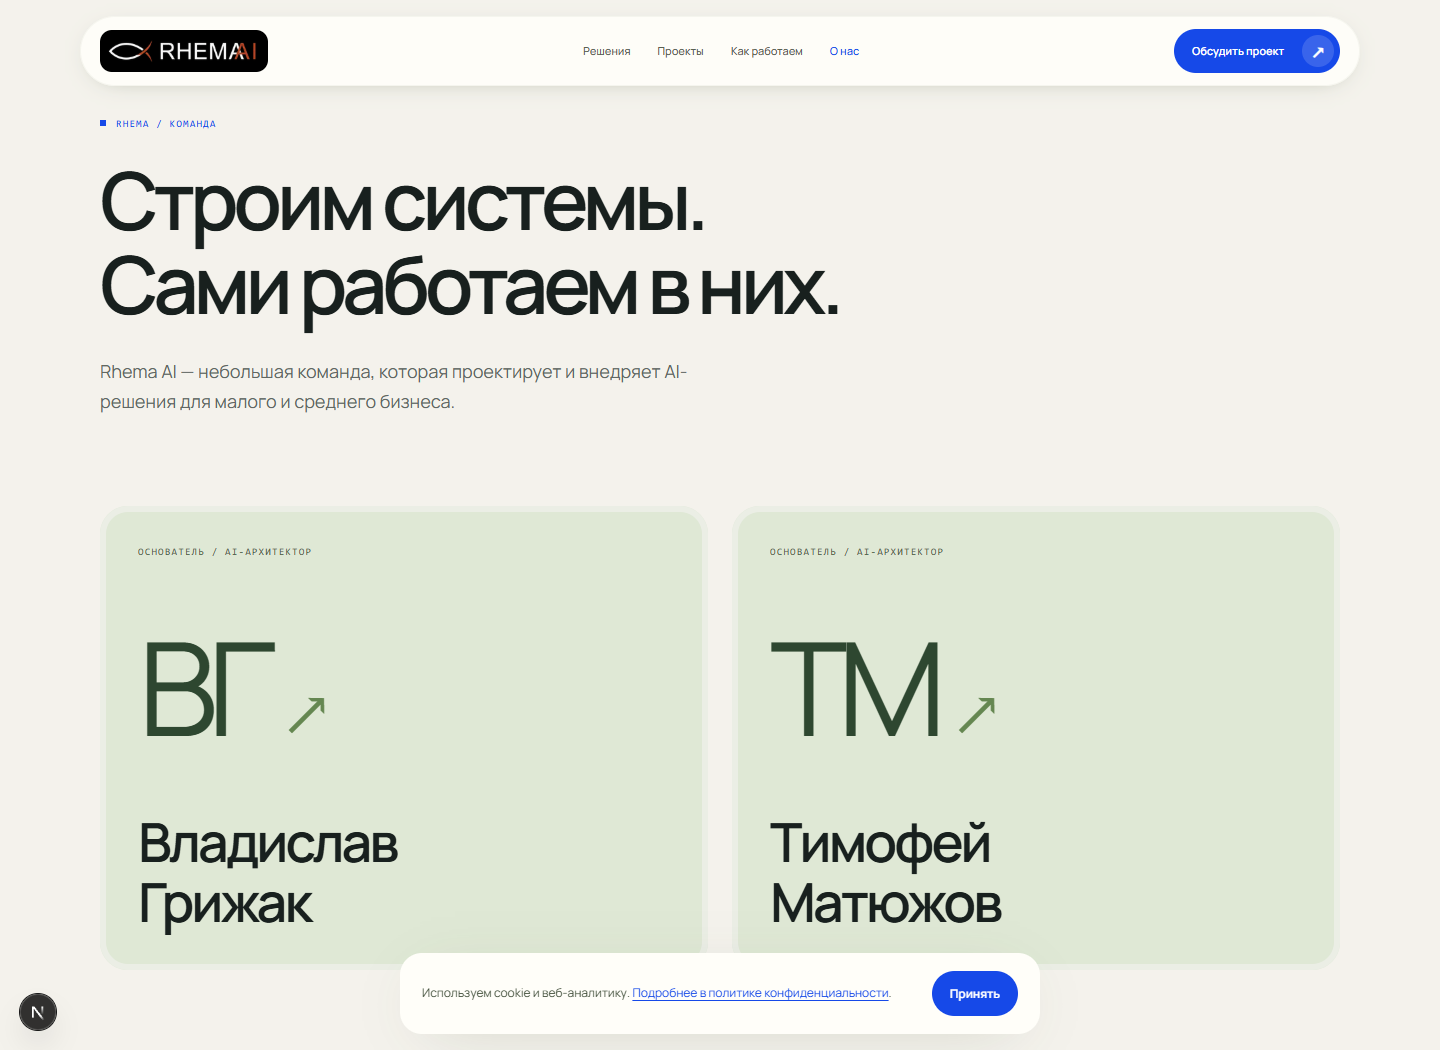
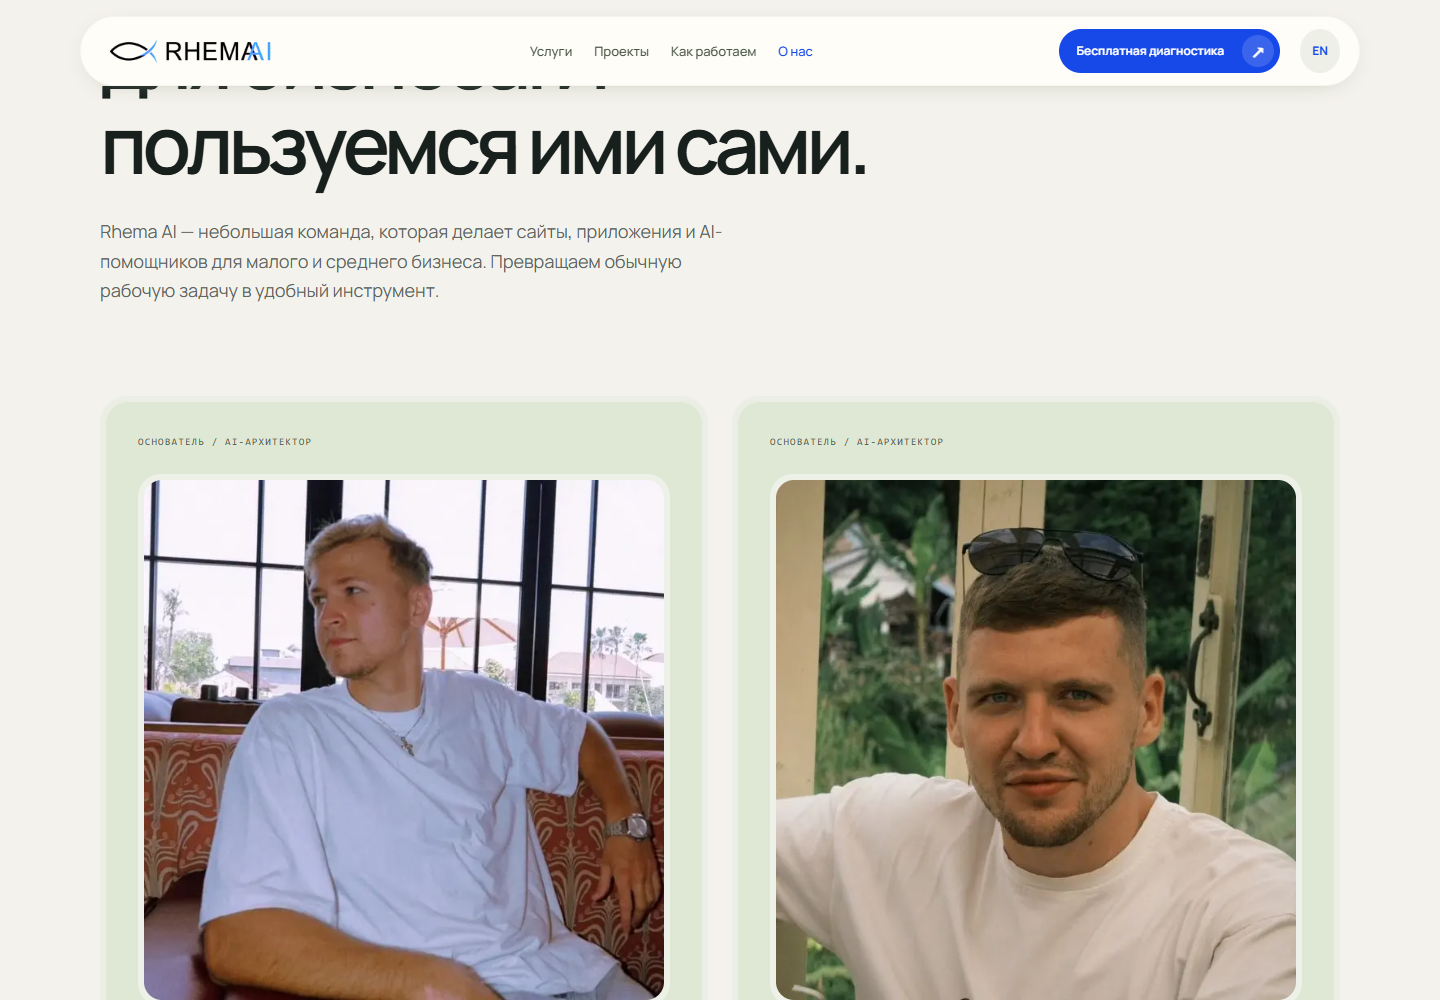
feat: replace founder monograms with supplied portraits

diff --git a/src/components/marketing/EnglishPages.tsx b/src/components/marketing/EnglishPages.tsx
@@ -2,6 +2,7 @@ import DiagnosisSection from './DiagnosisSection';
 import DiscoveryIntro, { ClearServices } from './DiscoveryIntro';
 import SeraphimTeaser from './SeraphimTeaser';
 import Link from 'next/link';
+import Image from 'next/image';
 
 import ContactPanel from './ContactPanel';
 import Reveal from './Reveal';
@@ -152,12 +153,12 @@ export function CasesPage() {
 
 export function AboutPage() {
   const founders = [
-    { firstName: 'Vladislav', lastName: 'Grizhak', initials: 'VG' },
-    { firstName: 'Timofey', lastName: 'Matyuzhov', initials: 'TM' },
+    { firstName: 'Vladislav', lastName: 'Grizhak', photo: '/team/vladislav-grizhak.jpg' },
+    { firstName: 'Timofey', lastName: 'Matyuzhov', photo: '/team/timofey-matyuzhov.jpg' },
   ];
   return <Reveal><div className={s.container}>
     <Intro eyebrow="RHEMA / Our team" title="We build tools for business. And use them ourselves.">Rhema AI is a small team building websites, apps and AI assistants for small and medium-sized businesses. We turn an everyday business task into a working tool.</Intro>
-    <section className={s.founders} aria-label="Rhema AI founders" data-reveal><div className={s.foundersGrid}>{founders.map(founder => <article className={s.founderCard} key={founder.lastName}><span className={s.mono}>CO-FOUNDER / AI ARCHITECT</span><div className={s.founderMonogram} aria-hidden="true">{founder.initials}<span>↗</span></div><h2>{founder.firstName}<br />{founder.lastName}</h2></article>)}</div></section>
+    <section className={s.founders} aria-label="Rhema AI founders" data-reveal><div className={s.foundersGrid}>{founders.map(founder => <article className={s.founderCard} key={founder.lastName}><span className={s.mono}>CO-FOUNDER / AI ARCHITECT</span><div className={s.founderPortrait}><Image src={founder.photo} alt={`${founder.firstName} ${founder.lastName} — Rhema AI co-founder`} width={640} height={640} sizes="(max-width: 600px) calc(100vw - 88px), (max-width: 1100px) 42vw, 520px" /></div><h2>{founder.firstName}<br />{founder.lastName}</h2></article>)}</div></section>
     <section className={s.aboutSplit} data-reveal><div><Label>Our approach</Label><h2>Know the work.<br /><em>Try it in practice.</em></h2></div><div><p>We built <Link href="/en/cases/jarvis" className={s.textLink}>Rhema OS (JARVIS)</Link> for our own team. It brings together customer records, call reviews, content drafts and AI assistants. We use that experience when working on your tasks.</p><h3>Start with your team</h3><p>We look at tasks that repeat, requests that get lost and information people have to copy by hand. Then we explain where AI would help and where a simpler solution would do.</p><h3>Fit the way you work</h3><p>We plan features around your work and the tools you already use. Access to the finished project, code handover and support are agreed in the project terms.</p><Action href="/en/cases" secondary>See our projects</Action></div></section>
     <ContactPanel locale="en" />
   </div></Reveal>;

diff --git a/src/components/marketing/MarketingPages.tsx b/src/components/marketing/MarketingPages.tsx
@@ -1,4 +1,5 @@
 import Link from 'next/link';
+import Image from 'next/image';
 import DiagnosisSection from './DiagnosisSection';
 
 import ContactPanel from './ContactPanel';
@@ -80,8 +81,8 @@ export function CasesPage() {
 }
 export function AboutPage() {
   const founders = [
-    { firstName: 'Владислав', lastName: 'Грижак', initials: 'ВГ' },
-    { firstName: 'Тимофей', lastName: 'Матюжов', initials: 'ТМ' },
+    { firstName: 'Владислав', lastName: 'Грижак', photo: '/team/vladislav-grizhak.jpg' },
+    { firstName: 'Тимофей', lastName: 'Матюжов', photo: '/team/timofey-matyuzhov.jpg' },
   ];
 
   return <Reveal><div className={s.container}>
@@ -92,7 +93,7 @@ export function AboutPage() {
       <div className={s.foundersGrid}>
         {founders.map(founder => <article className={s.founderCard} key={founder.lastName}>
           <span className={s.mono}>ОСНОВАТЕЛЬ / AI-АРХИТЕКТОР</span>
-          <div className={s.founderMonogram} aria-hidden="true">{founder.initials}<span>↗</span></div>
+          <div className={s.founderPortrait}><Image src={founder.photo} alt={`${founder.firstName} ${founder.lastName} — сооснователь Rhema AI`} width={640} height={640} sizes="(max-width: 600px) calc(100vw - 88px), (max-width: 1100px) 42vw, 520px" /></div>
           <h2>{founder.firstName}<br />{founder.lastName}</h2>
         </article>)}
       </div>

diff --git a/src/components/marketing/Editorial.module.css b/src/components/marketing/Editorial.module.css
@@ -202,6 +202,8 @@
 .aboutSplit { display:grid; grid-template-columns:1fr 1.2fr; gap:80px; padding:15px 0 105px; }
 .founderCard { background:#dfe8d5; border-radius:28px; padding:38px; box-shadow:inset 0 0 0 6px #ebeee5; }
 .founderCard .mono { color:#53634a; }
+.founderPortrait { margin:24px 0 28px; padding:6px; border-radius:23px; background:#eef1e8; overflow:hidden; }
+.founderPortrait img { display:block; width:100%; height:auto; aspect-ratio:1; object-fit:cover; border-radius:18px; }
 .founderMonogram { font-size:130px; letter-spacing:-.08em; line-height:1; margin:60px 0; color:#2e4730; }
 .founderMonogram span { display:inline-block; font-size:70px; padding-left:15px; color:#658751; }
 .founderCard p { margin-top:20px; font-size:13px; }

diff --git a/HANDOFF.md b/HANDOFF.md
@@ -2,6 +2,8 @@
 
 Рабочий сайт: https://rhema-ai-agency-amber.vercel.app
 
+Фото основателей добавлены на `/about` и `/en/about`: Владислав — `public/team/vladislav-grizhak.jpg`, Тимофей — `public/team/timofey-matyuzhov.jpg`. Соответствие подтверждено пользователем; исходные фотографии сохранены без ретуши, отображаются в квадратных рамках.
+
 19 сентября: [главная переработана вокруг пользы для бизнеса](design-export/rhema-refresh/HOME-MESSAGE-2026-09-19.md). Первый этап работы по смысловой подаче: первый экран, понятные направления, собственный опыт и бесплатная диагностика.
 
 Последнее обновление: [интерактивная диагностика, аналитика и источники заявок](design-export/rhema-refresh/ANALYTICS-AND-DIAGNOSIS-2026-09-15.md). Четыре вопроса → предварительный результат на сайте → контакт → бесплатный созвон. В документе — события, UTM-ссылки, проверка и оставшаяся настройка кабинета Метрики. Предыдущий релиз: [бесплатная диагностика и кейс SERAPHIM](design-export/rhema-refresh/FREE-DIAGNOSIS-2026-09-15.md).
